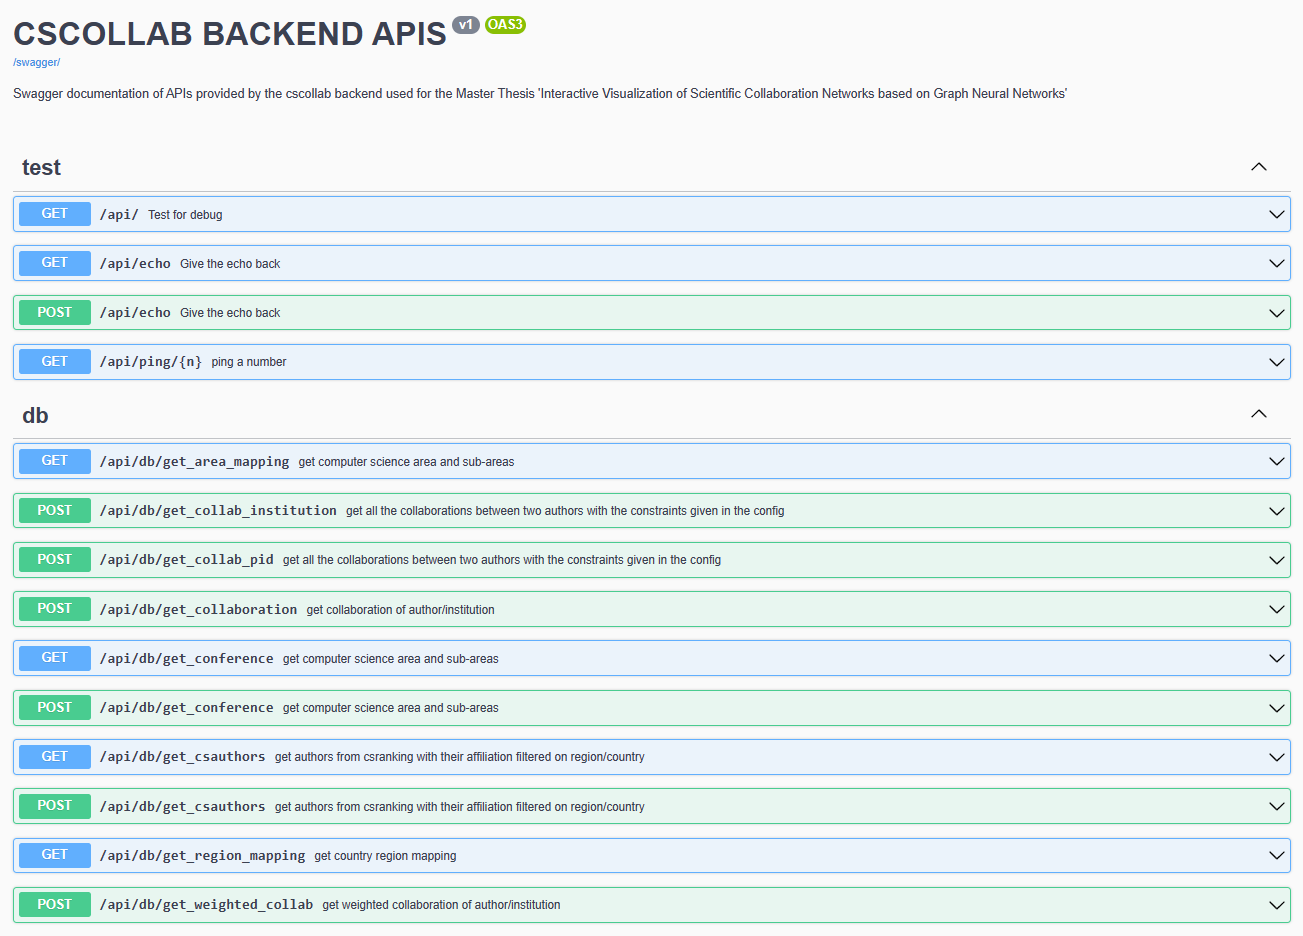
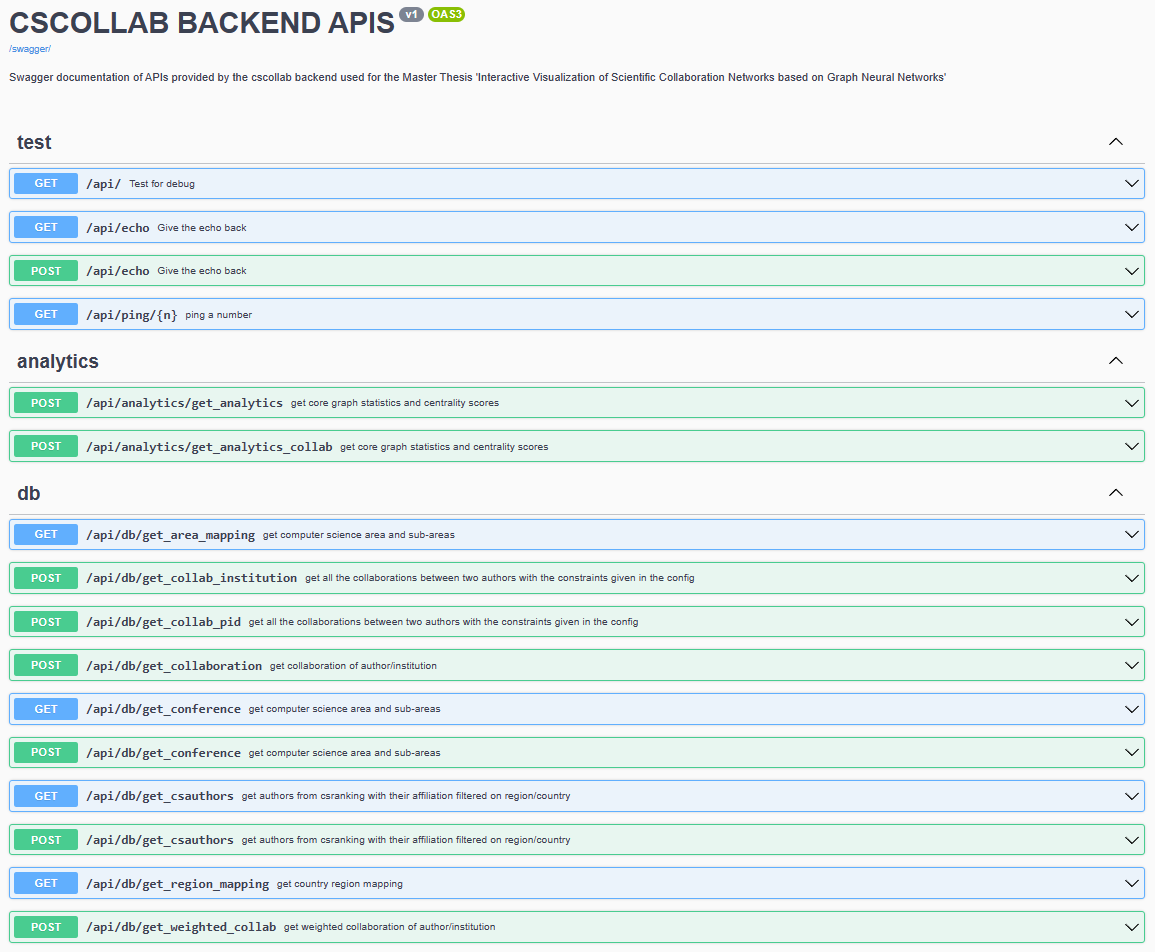
analytics apis

Changed region(s): [[0.0, 0.0, 0.9974, 0.9915]]

diff --git a/backend/views/analytics.py b/backend/views/analytics.py
@@ -6,6 +6,7 @@ from exceptions import make_swagger_response
 import kuzudb.query_kuzu as query
 import analytics.statistics as stat
 from cache import cache
+import pandas as pd
 
 """ define blueprint for graph analytics"""
 blueprint_name = "analytics"
@@ -29,11 +30,48 @@ def get_analytics(**kwargs):
     weighted = kwargs.get("weighted",False)
     top = kwargs.get("top",5)
     
+    """crate networkx graph and get analytics"""
     G = stat.gen_graph(nodes, edges, weighted=weighted)
     statistics =  stat.get_statistics(G)
     centralities = stat.get_centralities(G, weighted=weighted, top=top)
     analytics={"statistics":statistics,
                "centralities":centralities}
-   
+    return jsonify(analytics)
+
+@blueprint.route(route_path('get_analytics_collab'), methods=['POST'])
+@doc(summary="get core graph statistics and centrality scores",
+     tags=['analytics'],
+     responses=make_swagger_response([]))
+@use_kwargs({   'config': fields.Str(default="{}"),
+                'top': fields.Int(default=5)})
+def get_analytics_collab(**kwargs):
+    config = json.loads(kwargs.get("config","{}"))
+    top = kwargs.get("top",5)
+  
+    cache_key = "get_analytics_collab_{}_{}".format(config,top)
+    analytics = cache.get(cache_key)
+    if analytics is not None:
+        return jsonify(analytics)
+    
+    """ get weighted collaboration based on config"""
+    cache_key_collab = "get_weighted_collab_{}".format(config)
+    weighted_collab = cache.get(cache_key_collab)
+    if config and (weighted_collab is None):
+        result = query.get_weighted_collab(config=config)
+        weighted_collab =  json.loads(result.to_json(orient="records"))
+        cache.set(cache_key_collab, weighted_collab)
+    
+    """craete nodes and edges"""
+    data = pd.DataFrame(weighted_collab)
+    nodes = list(set(data["a"]) | set(data["b"]))
+    edges=[tuple(row.values) for _,row in data.iterrows()]
+    
+    """crate networkx graph and get analytics"""
+    G = stat.gen_graph(nodes, edges, weighted=True)
+    statistics =  stat.get_statistics(G)
+    centralities = stat.get_centralities(G, weighted=True, top=top)
+    analytics={"statistics":statistics,
+               "centralities":centralities}
+    cache.set(cache_key, analytics)
     return jsonify(analytics)
 

diff --git a/backend/views/database.py b/backend/views/database.py
@@ -110,9 +110,13 @@ def get_collaboration(**kwargs):
      responses=make_swagger_response([]))
 @use_kwargs({'config': fields.Str(default="{}")})
 def get_weighted_collab(**kwargs):
-    config = json.loads(kwargs["config"])
-    result = query.get_weighted_collab(config=config)
-    result_json =  json.loads(result.to_json(orient="records"))
+    config = json.loads(kwargs.get("config","{}"))
+    cache_key = "get_weighted_collab_{}".format(config)
+    result_json = cache.get(cache_key)
+    if config and (result_json is None):
+        result = query.get_weighted_collab(config=config)
+        result_json =  json.loads(result.to_json(orient="records"))
+        cache.set(cache_key, result_json)
     return jsonify(result_json)
 
 

diff --git a/backend/README.md b/backend/README.md
@@ -26,3 +26,53 @@ make server
 ## Overview APIs
 
 ![swagger api](swagger_apis.PNG)
+
+## Graph Analysis
+
+Under the directory */analytics* are the core functions to calculate statistics and graph theoretical analytics from given nodes and edges. 
+The analytics are calculated with the networkx library and are published under the */api/analytics/* endpoints. 
+
+For example the API */api/analytics/get_analytics_collab* takes as an input the config used for get_weighted_collab() and a paramerter "top" which is the number
+of top nodes to show from the centrality scores and returns a summary of graph theoretical analytics and statistics. For example the input {'config': '{"from_year": 2010, "area_id": "ai", "area_type": "a", "region_id": "dach", "strict_boundary": true, "institution": false}', 'top': 3} results in the following output:
+
+```{shell}
+{
+    "statistics":{
+      "average_degree":3.0386100386100385,
+      "average_shortest_path":4.016052235357255,
+      "clustering_coefficient":0.19633113436355548,
+      "degree_assortativity_coefficient":0.2742268589945848,
+      "density":0.00587738885611226,
+      "edges":787,
+      "is_connected":false,
+      "largest_connected_component":370,
+      "loops":0,
+      "max_degree":23,
+      "nodes":518,
+      "number_connected_components":57,
+      "triangle_count":310
+   },
+   "centralities":{
+      "betweenness_centrality":{
+         "85/6201":0.08489004596944434,
+         "97/119":0.10023496254305903,
+         "s/BerntSchiele":0.08641003108874803
+      },
+      "closeness_centrality":{
+         "97/119":0.20290254609829733,
+         "r/CarstenRother":0.20337259060663318,
+         "s/BerntSchiele":0.20656274889065881
+      },
+      "degree_centrality":{
+         "97/119":0.04448742746615087,
+         "r/CarstenRother":0.04448742746615087,
+         "s/BerntSchiele":0.04061895551257253
+      },
+      "eigenvector_centrality":{
+         "13/6920":0.19581685014562877,
+         "24/8616":0.6656576120254529,
+         "61/5017":0.7038679180984857
+      }
+   }
+}
+```
